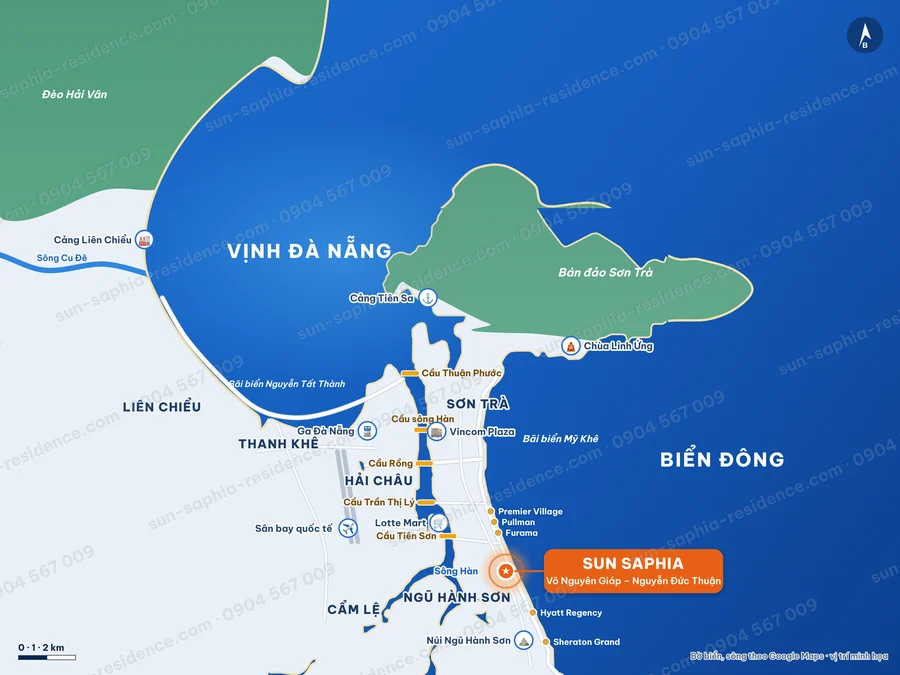
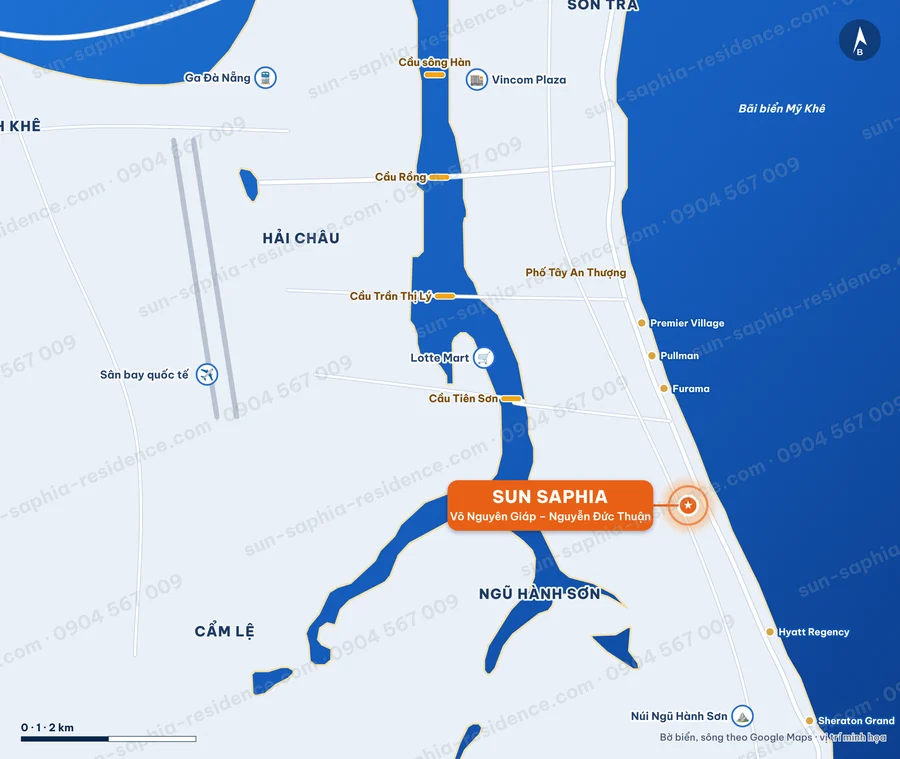
Bản đồ vị trí cận cảnh: cầu Rồng, Trần Thị Lý, Tiên Sơn, Mỹ Khê, An Thượng, resort
Claude-Session: https://claude.ai/code/session_01QqqhqeJL7dLdZQGmjqHGDV

diff --git a/landing/sun-saphia/seo/ban-do-da-nang/ve_ban_do.py b/landing/sun-saphia/seo/ban-do-da-nang/ve_ban_do.py
@@ -129,6 +129,7 @@ def make(W, H, lon0, lat1, span_lon, fs=1.0, poster=False, qh=False, inset=False
         o.append(icon(108.2330, 16.0715, '🏬', 'Vincom Plaza', 'r'))
         lm = BR['Cầu Tiên Sơn']; o.append(icon(lm[0] - 0.0030, 16.0418, '🛒', 'Lotte Mart', 'l'))
         o.append(icon(108.2095, 16.0717, '🚆', 'Ga Đà Nẵng', 'l'))
+        o.append(lab(108.2440, 16.0505, 'Phố Tây An Thượng', 12, 700, '#7a4a07'))
         o.append(icon(108.2300, 16.1150, '⚓', 'Cảng Tiên Sa', 'l', dx=-2))
         o.append(icon(108.2785, 16.0994, '🛕', 'Chùa Linh Ứng', 'r'))
         o.append(icon(108.1340, 16.1340, '🏭', 'Cảng Liên Chiểu', 'l'))
@@ -200,7 +201,9 @@ def make(W, H, lon0, lat1, span_lon, fs=1.0, poster=False, qh=False, inset=False
     o.append('<text x="%.1f" y="%.1f" text-anchor="middle" dominant-baseline="central" fill="#fff" style="font-size:%.1fpx">★</text>' % (x, y + 0.5, 12 * fs))
     bw, bh = 236 * fs, 58 * fs; px, py = x + 50 * fs, y - bh / 2
     if qh: px = x - bw - 40 * fs; py = y - bh / 2 + (22 * fs if not inset else 0)
-    o.append('<line x1="%.1f" y1="%.1f" x2="%.1f" y2="%.1f" stroke="#E96118" stroke-width="%.1f"/>' % (px + (bw if qh else 0), py + bh / 2, x + (-11 if qh else 11) * fs, y, 2.5 * fs))
+    left = qh or (px + bw > W - 10)
+    if left and not qh: px = x - bw - 40 * fs
+    o.append('<line x1="%.1f" y1="%.1f" x2="%.1f" y2="%.1f" stroke="#E96118" stroke-width="%.1f"/>' % (px + (bw if left else 0), py + bh / 2, x + (-11 if left else 11) * fs, y, 2.5 * fs))
     o.append('<g filter="url(#sh)"><rect x="%.1f" y="%.1f" width="%.1f" height="%.1f" rx="%.1f" fill="#E96118"/></g>' % (px, py, bw, bh, 12 * fs))
     o.append('<text x="%.1f" y="%.1f" text-anchor="middle" style="font:800 %.1fpx %s;letter-spacing:1px" fill="#fff">SUN SAPHIA</text>' % (px + bw / 2, py + 26 * fs, 20 * fs, F))
     o.append('<text x="%.1f" y="%.1f" text-anchor="middle" style="font:600 %.1fpx %s" fill="#fff">Võ Nguyên Giáp – Nguyễn Đức Thuận</text>' % (px + bw / 2, py + 46 * fs, 12.5 * fs, F))
@@ -252,4 +255,5 @@ def make(W, H, lon0, lat1, span_lon, fs=1.0, poster=False, qh=False, inset=False
 if __name__ == '__main__':
     (here / 'ban-do-da-nang.svg').write_text(make(1600, 1200, 108.085, 16.212, 0.305, fs=1.35), encoding='utf8')
     (here / 'so-do-quy-hoach.svg').write_text(make(1600, 1180, 108.190, 16.0788, 0.121, fs=1.3, qh=True), encoding='utf8')
+    (here / 'ban-do-gan.svg').write_text(make(1600, 1350, 108.180, 16.080, 0.100, fs=1.55), encoding='utf8')
     (here / 'ban-do-poster.svg').write_text(make(1080, 540, 108.045, 16.135, 0.330, fs=0.9, poster=True), encoding='utf8')
